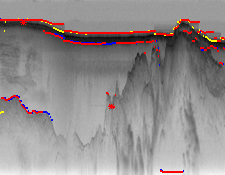
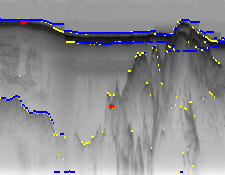
added median for simple bayes

diff --git a/part2/polar.py b/part2/polar.py
@@ -65,7 +65,7 @@ def draw_asterisk(image, pt, color, thickness):
 def write_output_image(filename, image, simple, hmm, feedback, feedback_pt):
     new_image = draw_boundary(image, simple, (255, 255, 0), 2)
     new_image = draw_boundary(new_image, hmm, (0, 0, 255), 2)
-    new_image = draw_boundary(new_image, feedback, (255, 0, 0), 2)
+   # new_image = draw_boundary(new_image, feedback, (255, 0, 0), 2)
     new_image = draw_asterisk(new_image, feedback_pt, (255, 0, 0), 2)
     imageio.imwrite(filename, new_image)
 
@@ -77,13 +77,15 @@ def get_bayes_rows(edge_strength):
         edge_col = edge_strength[:,col]
         edge_col_tmp = sorted(edge_col)
         max1 = edge_col_tmp[-1]
-        max2 = edge_col_tmp[-2]
         idx1 = np.where(edge_col == max1)[0][0]
-        idx2 = np.where(edge_col == max2)[0][0]
         max_rows_list.append(idx1)
-        if(abs(idx2-idx1)>=10):
-            next_rows_list.append(idx2)
-        
+    median_air_ice_row = int(median(max_rows_list))
+    for col in range(edge_strength.shape[1]):
+        next_rows_list+=[(np.argmax(edge_strength[median_air_ice_row+10:,col]))]
+    print(f'next_rows_list:{next_rows_list}')
+    next_rows_list = [row + median_air_ice_row+10 for row in next_rows_list]
+    print(f'next_rows_list1:{next_rows_list}')
+
     return (max_rows_list, next_rows_list)
 
 # 
@@ -116,14 +118,14 @@ def get_hmm_rows(edge_strength):
 
     V_table_ir = np.ones((nrows, ncols))*100000
     V_table_ir[:,0] = emission_probs[:,0]
+    median_air_ice_row = int(median(ridge))
 
     for t in range(1, edge_strength.shape[1]):
-            for row in range(ridge[t-1]+10, edge_strength.shape[0]):
+            for row in range(median_air_ice_row+10, edge_strength.shape[0]):
                 distance_distr = get_distance_distr(row, edge_strength.shape[0])
                 transition = -log(distance_distr/sum(distance_distr))
                 V_table_ir[row, t] = min(V_table_ir[:,t-1]+transition+emission_probs[row, t])
     ridge1 = V_table_ir.argmin(axis=0)
-
     return (ridge,ridge1)
 
 def get_feedback_rows_air_ice(edge_strength, row_coord, col_coord):
